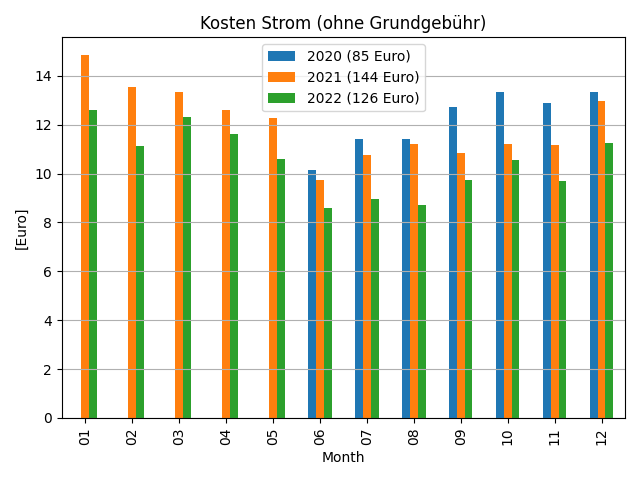
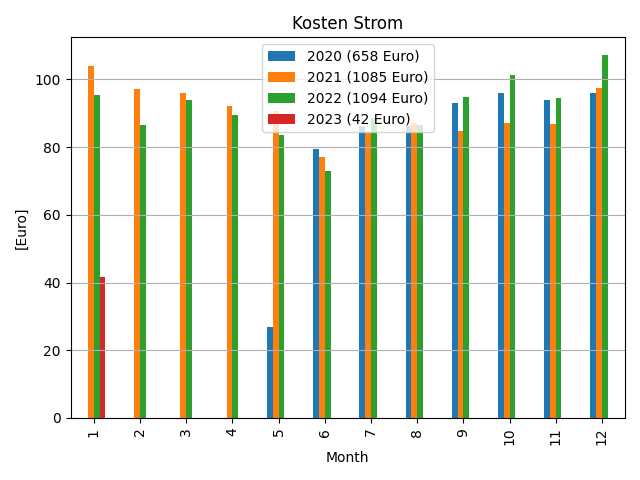
update

diff --git a/energie.py b/energie.py
@@ -4,6 +4,7 @@ from google.oauth2 import service_account
 import os
 import pandas as pd
 import matplotlib.pyplot as plt
+import numpy as np
 
 
 class Energie:
@@ -18,8 +19,8 @@ class Energie:
         self.RANGE_PRICES_GAS = 'L2:N20'
         self.RANGE_PRICES_WASSER = 'P2:R20'
 
-        self.creds_file = os.path.join('.', 'energie', 'credentials.json')
-        #self.creds_file = os.path.join('.', 'credentials.json')
+        #self.creds_file = os.path.join('.', 'energie', 'credentials.json')
+        self.creds_file = os.path.join('.', 'credentials.json')
         self.plot_dir = os.path.join('.', 'plots')
 
         self.factor_m3_to_kWh = 10
@@ -107,6 +108,8 @@ class Energie:
         self.df_strom_final = self.df_monthly[['Strom_interp_der']].join(self.df_monthly_prices_strom)
         self.df_strom_final['Kosten'] = self.df_strom_final['Strom_interp_der'] * self.df_strom_final['Arbeitspreis_daily'] + self.df_strom_final['Grundpreis_daily']
         self.df_gas_final = self.df_monthly[['Gas_interp_der']].join(self.df_monthly_prices_gas)
+        # m3 to kWh
+        self.df_gas_final['Gas_interp_der'] = self.df_gas_final['Gas_interp_der'] * self.factor_m3_to_kWh
         self.df_gas_final['Kosten'] = self.df_gas_final['Gas_interp_der'] * self.df_gas_final['Arbeitspreis_daily'] + self.df_gas_final['Grundpreis_daily']
         self.df_wasser_final = self.df_monthly[['Wasser_interp_der']].join(self.df_monthly_prices_wasser)
         self.df_wasser_final['Kosten'] = self.df_wasser_final['Wasser_interp_der'] * self.df_wasser_final['Arbeitspreis_daily'] + self.df_wasser_final['Grundpreis_daily']                
@@ -118,8 +121,8 @@ class Energie:
             os.makedirs(self.plot_dir)
 
         # get yearly stats
-        years = self.df_readings['year'].unique()
-        month_index = ['01', '02', '03', '04', '05', '06', '07', '08', '09', '10', '11', '12']
+        years = self.df_readings['year'].unique()        
+        month_index = np.arange(1, 13, dtype=np.int64)
 
         # verbrauch
         df_strom = pd.DataFrame(columns=years, index=month_index)
@@ -137,41 +140,62 @@ class Energie:
         gas_cost_legend = []
         wasser_cost_legend = []
 
-        # TODO!!!
+        # Strom
         for year in years:
-            mask = (self.df_monthly.index >= f'{year}-01') & (self.df_monthly.index <= f'{year}-12')
-            data_year = self.df_monthly.loc[mask]
-
-            # m3 to kWh
-            data_year['Gas_interp_der'] = data_year['Gas_interp_der'] * self.factor_m3_to_kWh 
-            data_year['Gas_Cost'] = data_year['Gas_Cost'] * self.factor_m3_to_kWh
+            mask = (self.df_strom_final.index >= f'{year}-01') & (self.df_strom_final.index <= f'{year}-12')
+            data_year = self.df_strom_final.loc[mask]
 
             # change index (remove year)
             idx_new = []
             for idx in data_year.index:
-                idx_new.append(idx.split('-')[-1])
+                idx_new.append(idx.month)
             data_year.index = idx_new
-
-            print(f'Consumption for {year}:')
-            print(f" Gas: {data_year['Gas_interp_der'].sum() * self.factor_m3_to_kWh:.1f} kWh")
-            print(f" Strom: {data_year['Strom_interp_der'].sum():.1f} kWh")
-            print(f" Wasser: {data_year['Wasser_interp_der'].sum():.1f} m3")
         
             # df
             df_strom[year] = data_year['Strom_interp_der']
-            df_gas[year] = data_year['Gas_interp_der']
-            df_wasser[year] = data_year['Wasser_interp_der']
-            df_strom_cost[year] = data_year['Strom_Cost']
-            df_gas_cost[year] = data_year['Gas_Cost']
-            df_wasser_cost[year] = data_year['Wasser_Cost']
+            df_strom_cost[year] = data_year['Kosten']
 
             # legend
             strom_legend.append(f"{year} ({data_year['Strom_interp_der'].sum():.0f} kWh)")
+            strom_cost_legend.append(f"{year} ({data_year['Kosten'].sum():.0f} Euro)")
+
+        # Gas
+        for year in years:
+            mask = (self.df_gas_final.index >= f'{year}-01') & (self.df_gas_final.index <= f'{year}-12')
+            data_year = self.df_gas_final.loc[mask]
+
+            # change index (remove year)
+            idx_new = []
+            for idx in data_year.index:
+                idx_new.append(idx.month)
+            data_year.index = idx_new
+        
+            # df
+            df_gas[year] = data_year['Gas_interp_der']
+            df_gas_cost[year] = data_year['Kosten']
+
+            # legend
             gas_legend.append(f"{year} ({data_year['Gas_interp_der'].sum():.0f} kWh)")
+            gas_cost_legend.append(f"{year} ({data_year['Kosten'].sum():.0f} Euro)")
+
+        # Wasser
+        for year in years:
+            mask = (self.df_wasser_final.index >= f'{year}-01') & (self.df_wasser_final.index <= f'{year}-12')
+            data_year = self.df_wasser_final.loc[mask]
+
+            # change index (remove year)
+            idx_new = []
+            for idx in data_year.index:
+                idx_new.append(idx.month)
+            data_year.index = idx_new
+        
+            # df
+            df_wasser[year] = data_year['Wasser_interp_der']
+            df_wasser_cost[year] = data_year['Kosten']
+
+            # legend
             wasser_legend.append(f"{year} ({data_year['Wasser_interp_der'].sum():.0f} m3)")
-            strom_cost_legend.append(f"{year} ({data_year['Strom_Cost'].sum():.0f} Euro)")
-            gas_cost_legend.append(f"{year} ({data_year['Gas_Cost'].sum():.0f} Euro)")
-            wasser_cost_legend.append(f"{year} ({data_year['Wasser_Cost'].sum():.0f} Euro)")
+            wasser_cost_legend.append(f"{year} ({data_year['Kosten'].sum():.0f} Euro)")
             
         # Plots
         # Strom
@@ -187,7 +211,7 @@ class Energie:
 
         # Strom Kosten
         df_strom_cost.plot.bar()
-        plt.title('Kosten Strom (ohne Grundgebühr)')
+        plt.title('Kosten Strom')
         plt.xlabel('Month')
         plt.ylabel('[Euro]')
         plt.grid(axis='y')
@@ -209,7 +233,7 @@ class Energie:
 
         # Gas Kosten
         df_gas_cost.plot.bar()
-        plt.title('Kosten Gas (ohne Grundgebühr)')
+        plt.title('Kosten Gas')
         plt.xlabel('Month')
         plt.ylabel('[Euro]')
         plt.grid(axis='y')
@@ -231,7 +255,7 @@ class Energie:
 
         # Wasser Kosten
         df_wasser_cost.plot.bar()
-        plt.title('Kosten Wasser (ohne Grundgebühr)')
+        plt.title('Kosten Wasser')
         plt.xlabel('Month')
         plt.ylabel('[Euro]')
         plt.grid(axis='y')
